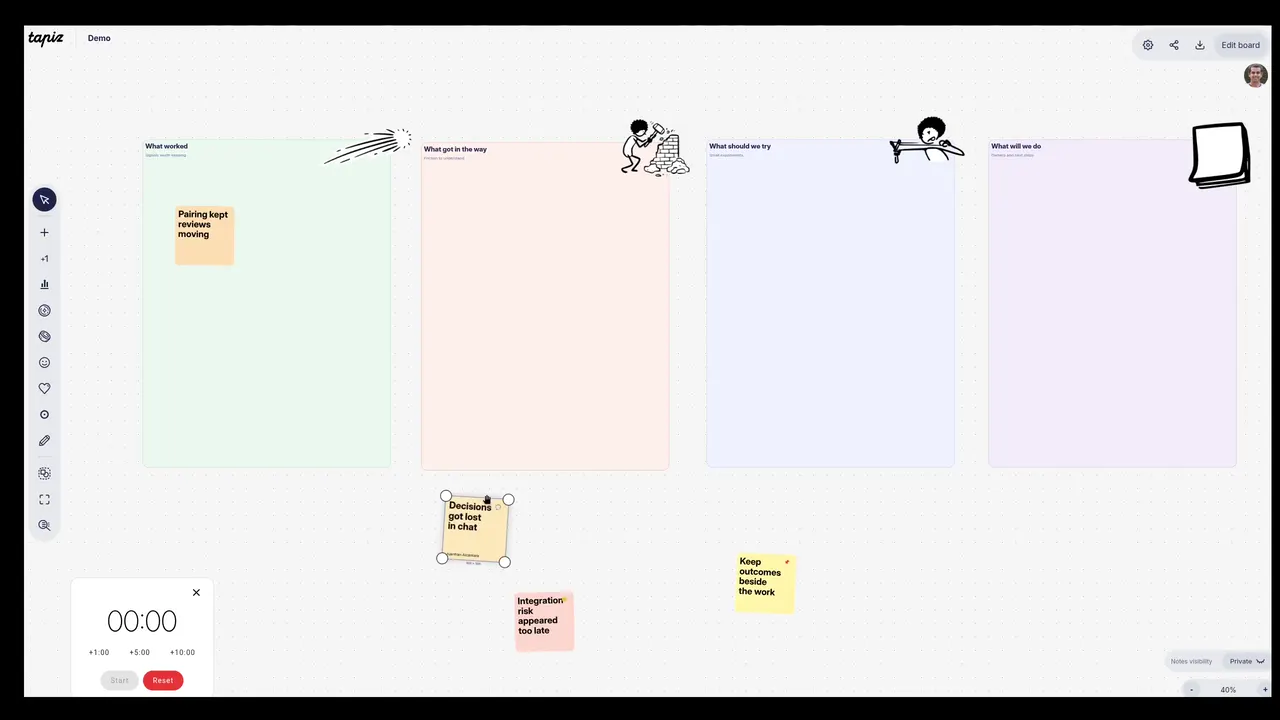
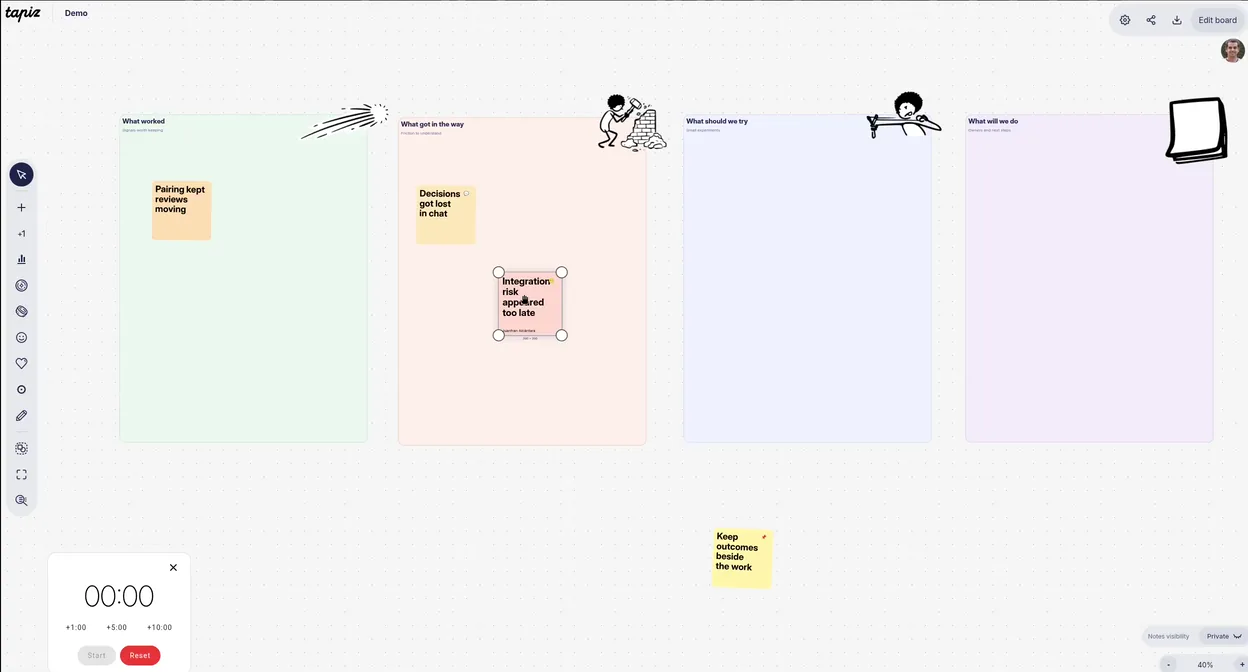
fix: video resolution

diff --git a/apps/landing/src/styles/landing.css b/apps/landing/src/styles/landing.css
@@ -432,7 +432,7 @@ h3 {
 }
 
 .product-media video {
-  aspect-ratio: 16 / 9;
+  aspect-ratio: 13 / 7;
   background: var(--surface);
 }
 